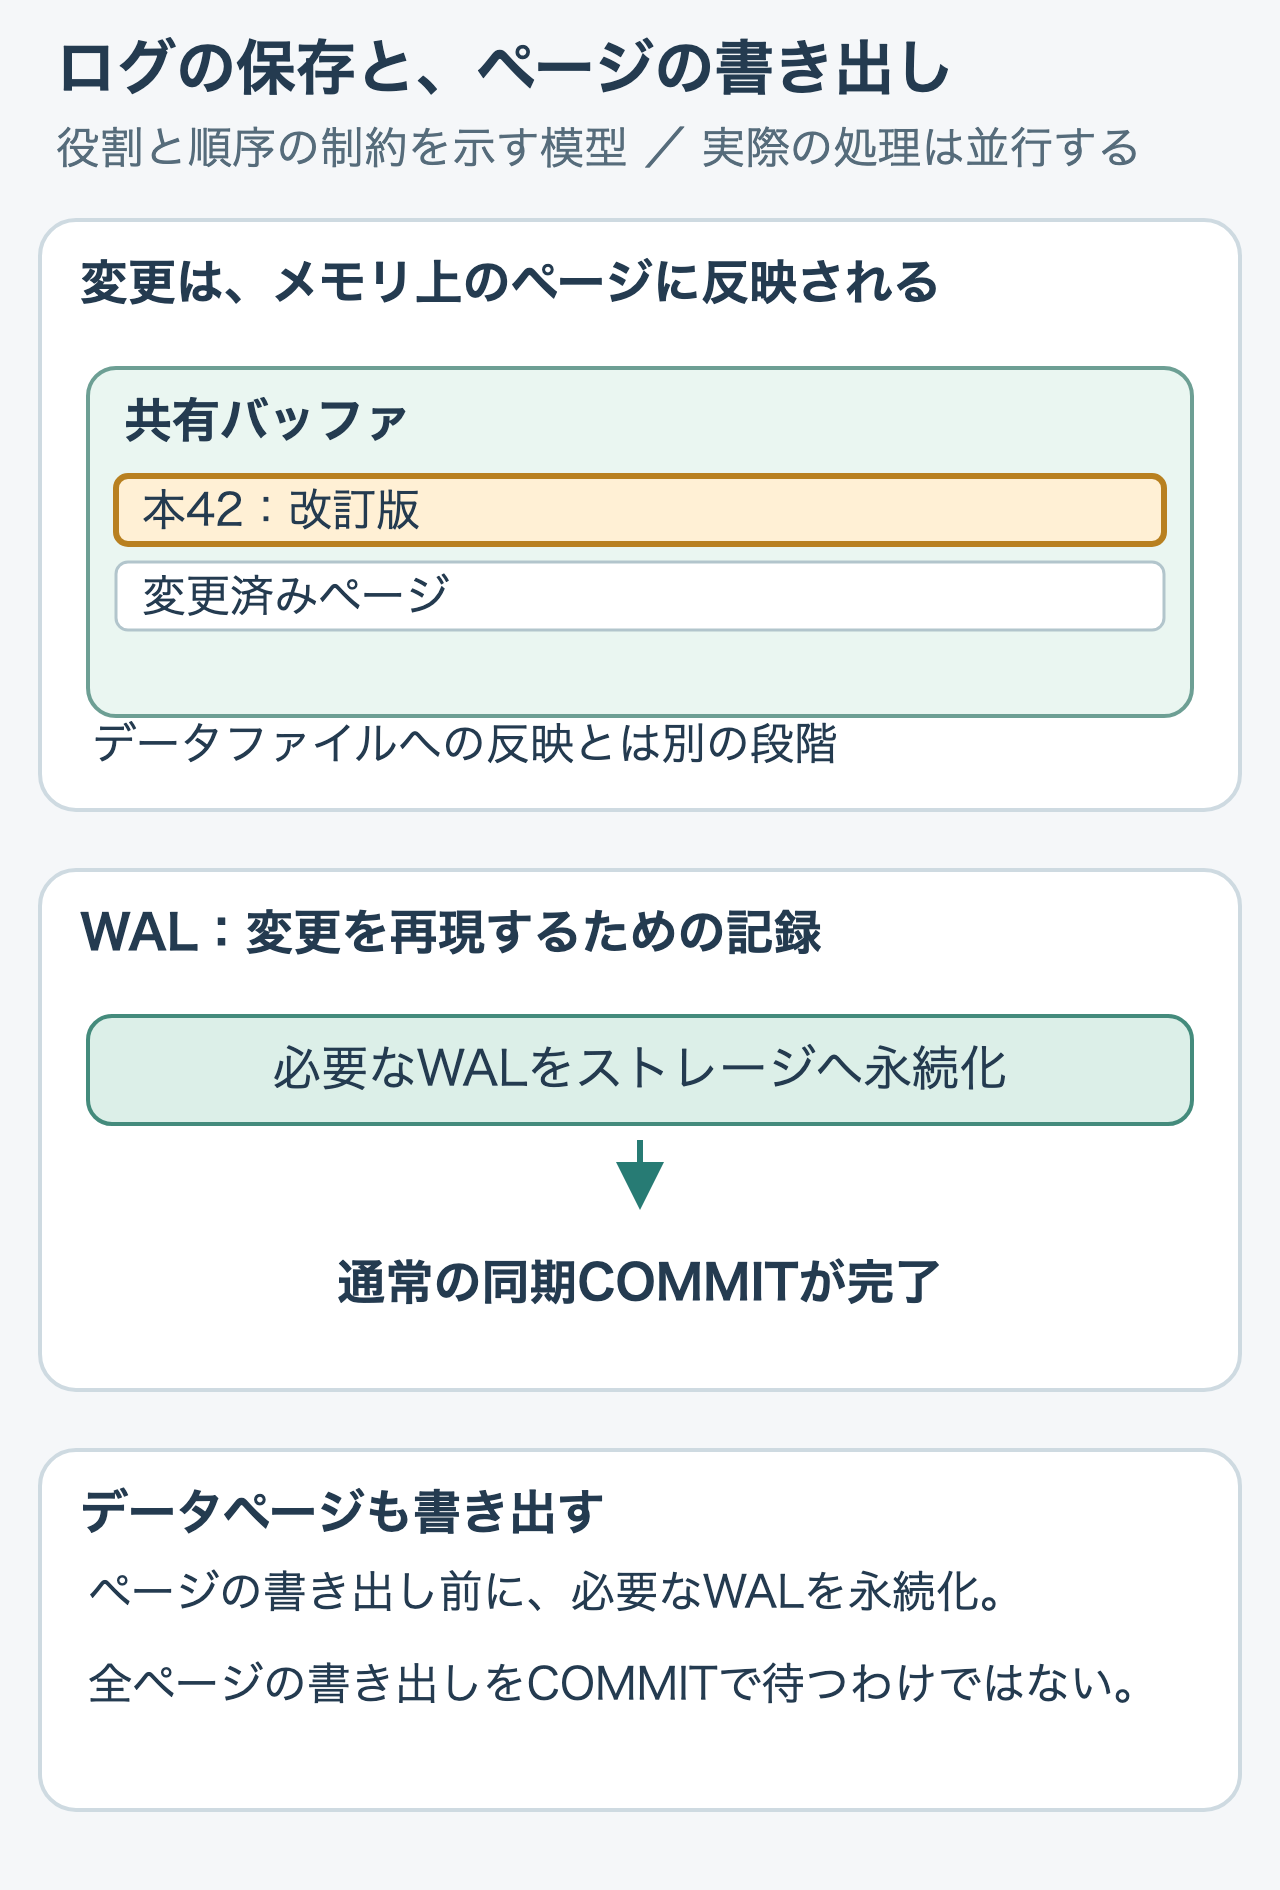
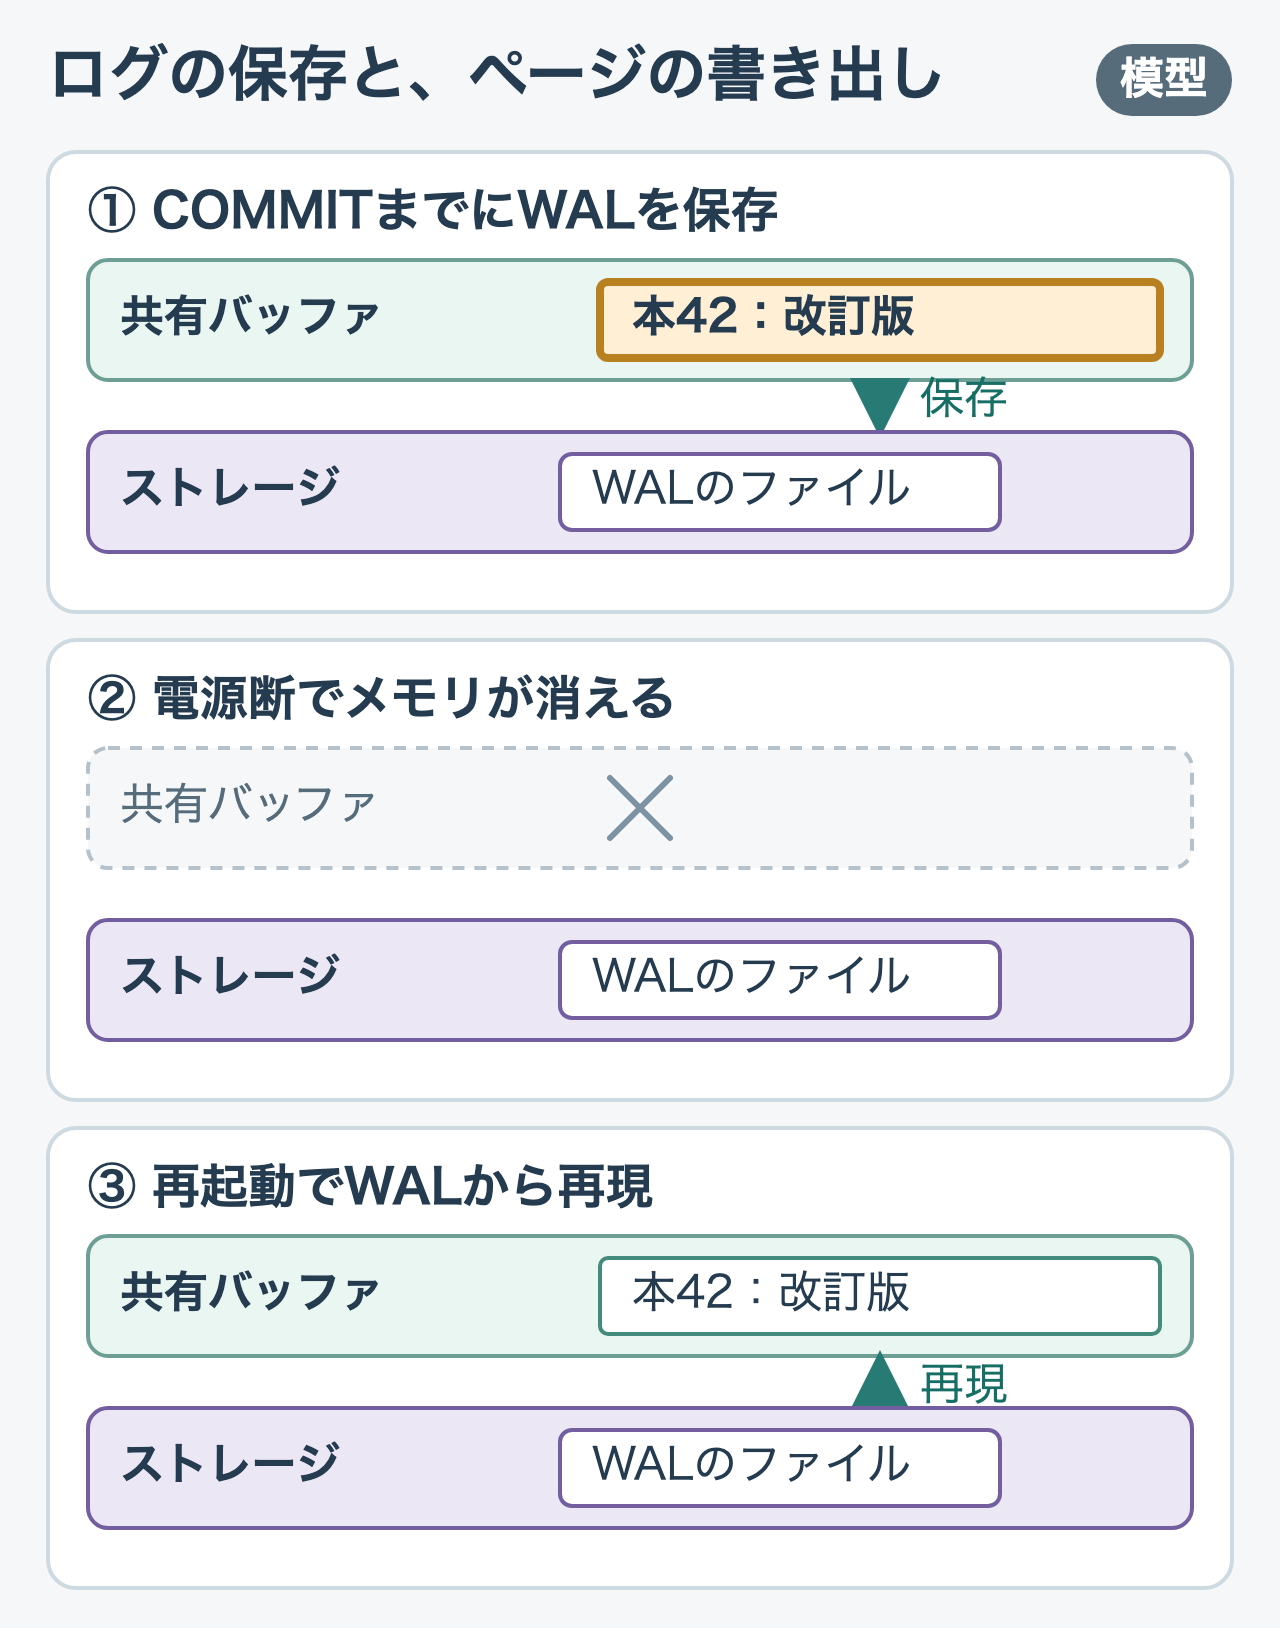
docs(query-journey): 第11章のWALとページ書き出しの図を①②③の模型に描き直す
上にメモリ（共有バッファ）、下にストレージを置き、COMMITまでのWAL保存・
電源断でのメモリ消失・再起動でのWALからの再現の3段階を1枚で示すよう
書き直した。代替テキストとキャプションも図の変化に合わせて直した。

Changed region(s): [[0.0312, 0.0, 0.9688, 0.9828]]

diff --git a/books/postgresql-query-journey/11-mvcc-and-maintenance.md b/books/postgresql-query-journey/11-mvcc-and-maintenance.md
@@ -130,8 +130,8 @@ DROP INDEX reading_records_visibility_idx;
 
 メモリ上の内容は電源断で失われるため、変更を確定するにはストレージへの保存が必要です。そこで、データページを書き出すより先に、変更を再現するための記録を保存します。これが**WAL**（先行書き込みログ）です。
 
-![ログの保存と、ページの書き出し](/images/postgresql-query-journey/11-wal-and-pages.png)
-*役割と順序の制約を示す模型。実際の処理は並行します。*
+![電源が切れてもWALが残っていれば、ページを作り直せる](/images/postgresql-query-journey/11-wal-and-pages.png)
+*見るのは、WALを保存する順序と、電源断で消えないもの。模型。*
 
 WALを先に保存する順序は、`synchronous_commit`の設定を変えても守られます。この設定で変わるのは、COMMITがWALの保存を待ってから返るかどうかです。
 
